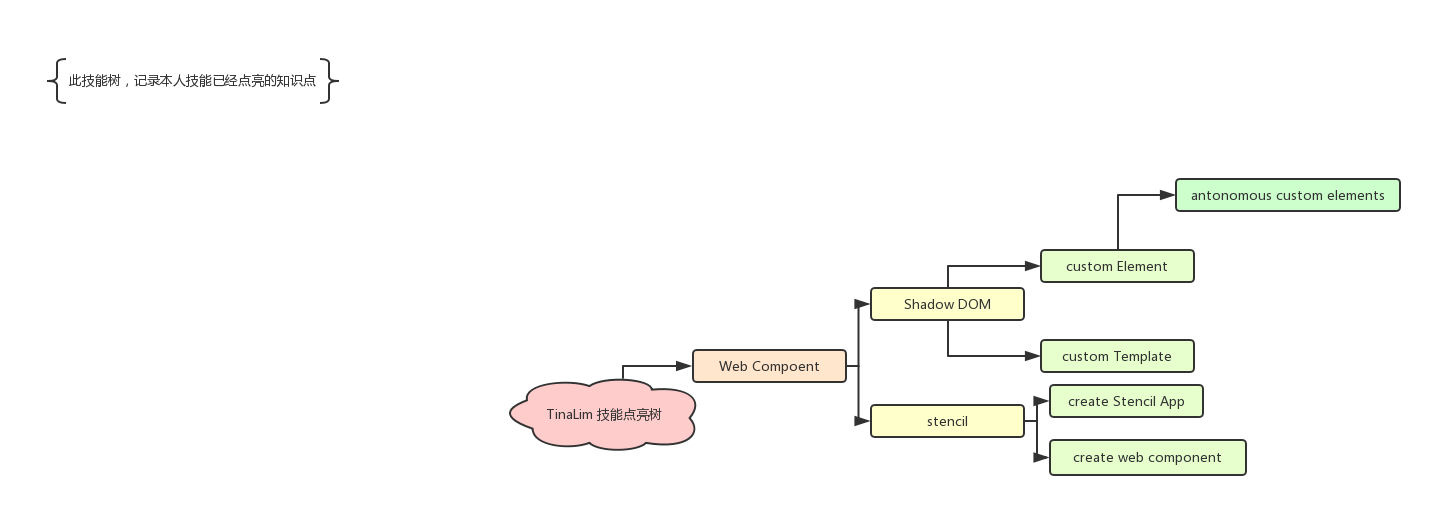
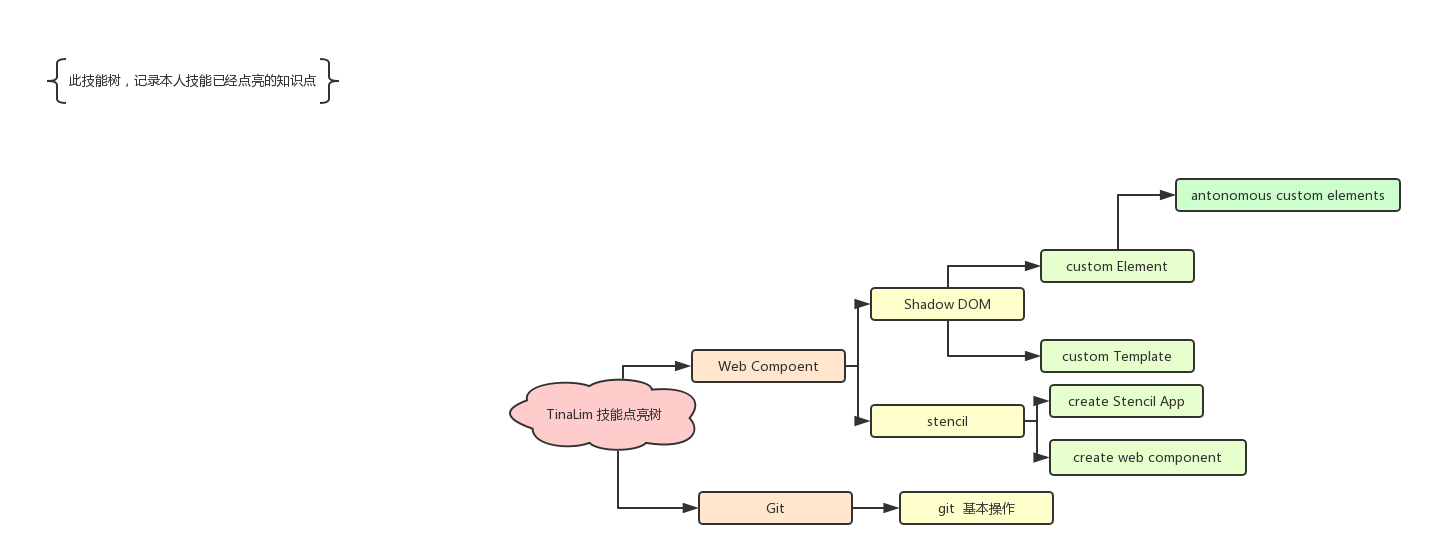
add git operate note

Changed region(s): [[0.338, 0.2959, 0.9832, 0.9467], [0.0307, 0.1183, 0.2458, 0.1775]]

diff --git a/git/README.md b/git/README.md
@@ -1,0 +1,60 @@
+# git 常用命令列表
+created 2018-08-12 20:53 tinalim
+
+> 本章记录git常用命令以备查看
+
+```
+// 设置git账户名称和邮箱
+git config --global user.name "your name"
+git config --global user.email "your email"
+
+// 创建本地git仓库
+md | mkdir file-name (文件路径最好不要有中文)
+cd file-name
+git init
+
+// 把文件添加到stage（暂存库）
+git add . (注意. 添加所有文件)
+git add file-name (指定添加某个文件)
+
+// 把暂存库中的文件提交到当前分支
+git commit -m "message"
+
+// 查看仓库当前状态（比如是否有文件上传，或者修改等）
+git status
+
+// 查看当前文件相比较于在仓库中的最新一个版本里的文件有什么变化
+git diff file-name
+
+// 查看历史提交记录
+git log (打印出来的信息会从最近的一次开始往回显示)
+
+// git版本表示
+1. git 中  HEAD  表示当前版本
+2. git 中查看当前版本的上一个版本用  HEAD^  表示
+3. ^^ 两个就是当前版本的上上个版本一次类推，当然，可以使用 HEAD-数字表示
+
+// 版本回退
+git reset --hard HEAD^  (这里以退回当前版本的上一个版本为例)
+注意： 从当前版本回退到第X个版本中，那么第X版本后提交的版本就不能在git log 中被查看到了，但是如果几个版本号（那串很长的数字）的前几位的话，可以通过 git reset --hard 版本号 进行穿越
+
+// 查看每次操作命令
+git reflog (比较常用语回退历史版本前查看版本ID编号)
+
+// 撤销还没有提交的在工作区的修改
+git checkout -- file-name
+
+// 撤销添加到暂存区的修改
+git reset HEAD file-name
+git checkout -- file-name
+
+// 切换分支
+git checkout -b branch-name
+
+
+// 删除文件
+git rm file-name
+```
+
+## git示意图
+![images]()
